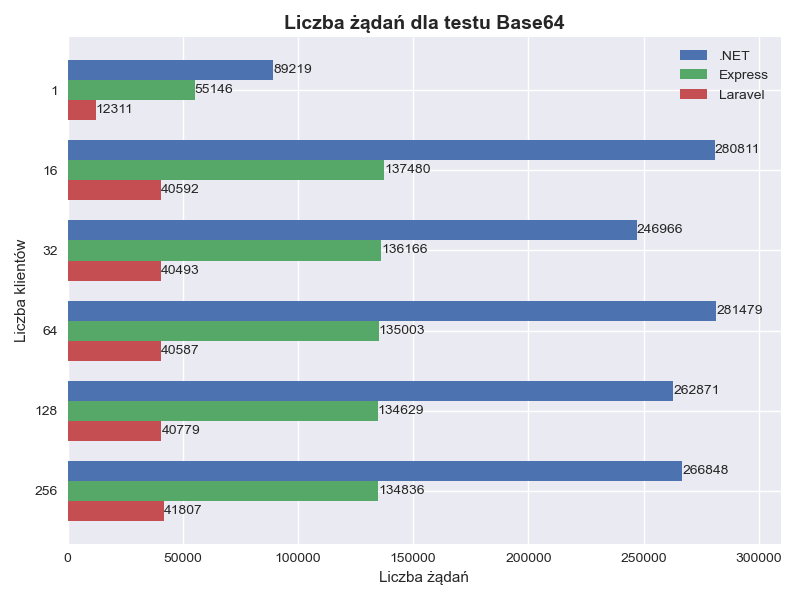
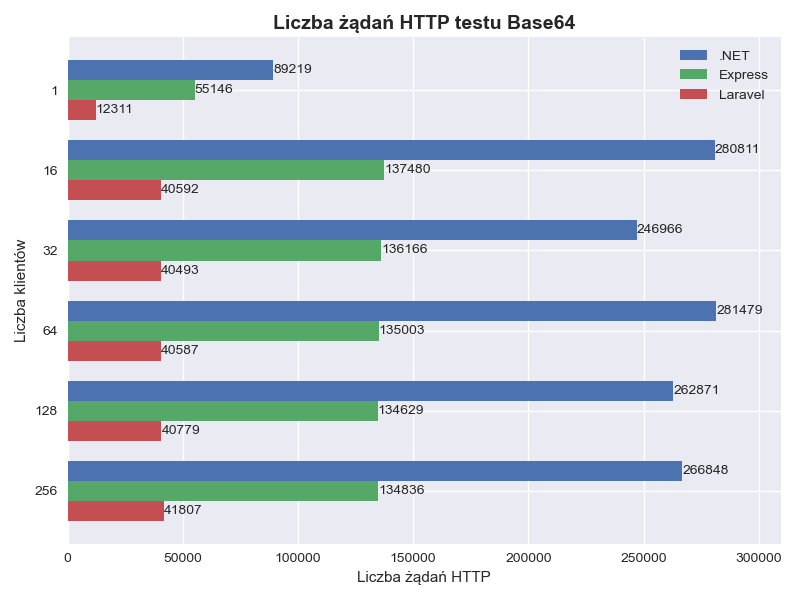
Update scripts which are used for creating plots

Changed region(s): [[0.3438, 0.0, 0.7188, 0.06], [0.4375, 0.93, 0.5938, 0.99]]

diff --git a/tools/plots/plot_vertical.py b/tools/plots/plot_vertical.py
@@ -1,30 +1,69 @@
 import matplotlib.pyplot as plt
 import numpy as np
+import pandas as pd
+import os
+import sys
 
-# data
-dotnet_requests = [86969, 282159, 292688, 295841, 299524, 267553]
-express_requests = [56132, 141999, 143794, 143490, 139665, 141147]
-laravel_requests = [11966, 38655, 38884, 38437, 39129, 39956]
 
-# plot
-bar_width = 0.25
-labels = ['1', '16', '32', '64', '128', '256']
-legend = ['.NET', 'Express', 'Laravel']
-xlabel = 'Liczba klientów'
-ylabel = 'Liczba żądań'
-title = 'JSON Test'
-x = np.arange(len(labels))
+class VerticalPlot:
+    def __init__(self, csv_file_path, file_name, title, style='seaborn'):
+        # input data
+        self.df = pd.read_csv(csv_file_path)
+        self.df = self.df.rename(
+            index={0: 'requests'})
+        self.requests_data = self.df.loc['requests']
 
-plt.style.use('seaborn')
-plt.figure(figsize=(8, 6))
+        # plot settings
+        plt.style.use(style)
+        self.bar_width = 0.6
+        self.labels = ['.NET', 'Express', 'Laravel']
+        self.legend = ['Czas']
+        self.xlabel = 'Platforma programistyczna'
+        self.ylabel = 'Czas [s]'
+        self.title = title
+        self.x = np.arange(len(self.labels))
+        self.fig_width = 8
+        self.fig_height = 6
+        self.fig, self.ax = plt.subplots(
+            figsize=(self.fig_width, self.fig_height))
 
-plt.bar(x - bar_width, dotnet_requests, bar_width)
-plt.bar(x, express_requests, bar_width)
-plt.bar(x + bar_width, laravel_requests, bar_width)
+        # output file settings
+        self.file_name = file_name
 
-plt.xticks(x, labels)
-plt.xlabel(xlabel)
-plt.ylabel(ylabel)
-plt.title(title)
-plt.legend(legend)
-plt.show()
+    def generate(self):
+        self.ax.bar(self.x, self.requests_data, self.bar_width)
+
+        for container in self.ax.containers:
+            self.ax.bar_label(container, padding=2)
+
+        self.ax.set_xlabel(self.xlabel)
+        self.ax.set_ylabel(self.ylabel)
+        self.ax.set_xticks(self.x)
+        self.ax.set_xticklabels(self.labels)
+        self.ax.set_title(self.title, fontsize=14, fontweight='bold')
+        plt.legend(self.legend)
+        plt.tight_layout()
+        plt.savefig(self.file_name)
+
+
+csv_dir = 'csv'
+plots_dir = 'plots'
+plot_data = {
+    'measurements_random_create_1000': 'Czasy testu Measurements Random Create 1000',
+    'measurements_random_create_10000': 'Czasy testu Measurements Random Create 10000',
+    'measurements_random_update_1000': 'Czasy testu Measurements Random Update 1000',
+    'measurements_random_update_10000': 'Czasy testu Measurements Random Update 10000'
+}
+
+if not os.path.isdir(csv_dir):
+    sys.exit(f'{csv_dir} directory does not exist')
+
+if not os.path.isdir(plots_dir):
+    os.makedirs(plots_dir)
+    print(f'{plots_dir} directory was created\n')
+
+for key, value in plot_data.items():
+    horizontal_plot = VerticalPlot(
+        csv_file_path=f'{csv_dir}/{key}.csv', file_name=f'{plots_dir}/{key}.png', title=value)
+    horizontal_plot.generate()
+    print(f'{key} was created')

diff --git a/tools/plots/plot_horizontal.py b/tools/plots/plot_horizontal.py
@@ -20,7 +20,7 @@ class HorizontalPlot:
         self.bar_width = 0.25
         self.labels = ['1', '16', '32', '64', '128', '256']
         self.legend = ['.NET', 'Express', 'Laravel']
-        self.xlabel = 'Liczba żądań'
+        self.xlabel = 'Liczba żądań HTTP'
         self.ylabel = 'Liczba klientów'
         self.title = title
         self.y = np.arange(len(self.labels))
@@ -59,16 +59,16 @@ class HorizontalPlot:
 csv_dir = 'csv'
 plots_dir = 'plots'
 plot_data = {
-    'json': 'Liczba żądań dla testu JSON',
-    'plaintext': 'Liczba żądań dla testu Plaintext',
-    'base64': 'Liczba żądań dla testu Base64',
-    'measurements_random': 'Liczba żądań dla testu Measurements Random',
-    'measurements': 'Liczba żądań dla testu Measurements',
-    'measurements100': 'Liczba żądań dla testu Measurements 100',
-    'measurements1000': 'Liczba żądań dla testu Measurements 1000',
-    'measurements_location': 'Liczba żądań dla testu Measurements Location',
-    'measurements_queries5': 'Liczba żądań dla testu Measurements Queries 5',
-    'measurements_queries10': 'Liczba żądań dla testu Measurements Queries 10',
+    'json': 'Liczba żądań HTTP testu JSON',
+    'plaintext': 'Liczba żądań HTTP testu Plaintext',
+    'base64': 'Liczba żądań HTTP testu Base64',
+    'measurements_random': 'Liczba żądań HTTP testu Measurements Random',
+    'measurements': 'Liczba żądań HTTP testu Measurements',
+    'measurements100': 'Liczba żądań HTTP testu Measurements 100',
+    'measurements1000': 'Liczba żądań HTTP testu Measurements 1000',
+    'measurements_location': 'Liczba żądań HTTP testu Measurements Location',
+    'measurements_queries5': 'Liczba żądań HTTP testu Measurements Queries 5',
+    'measurements_queries10': 'Liczba żądań HTTP testu Measurements Queries 10',
 }
 
 if not os.path.isdir(csv_dir):
